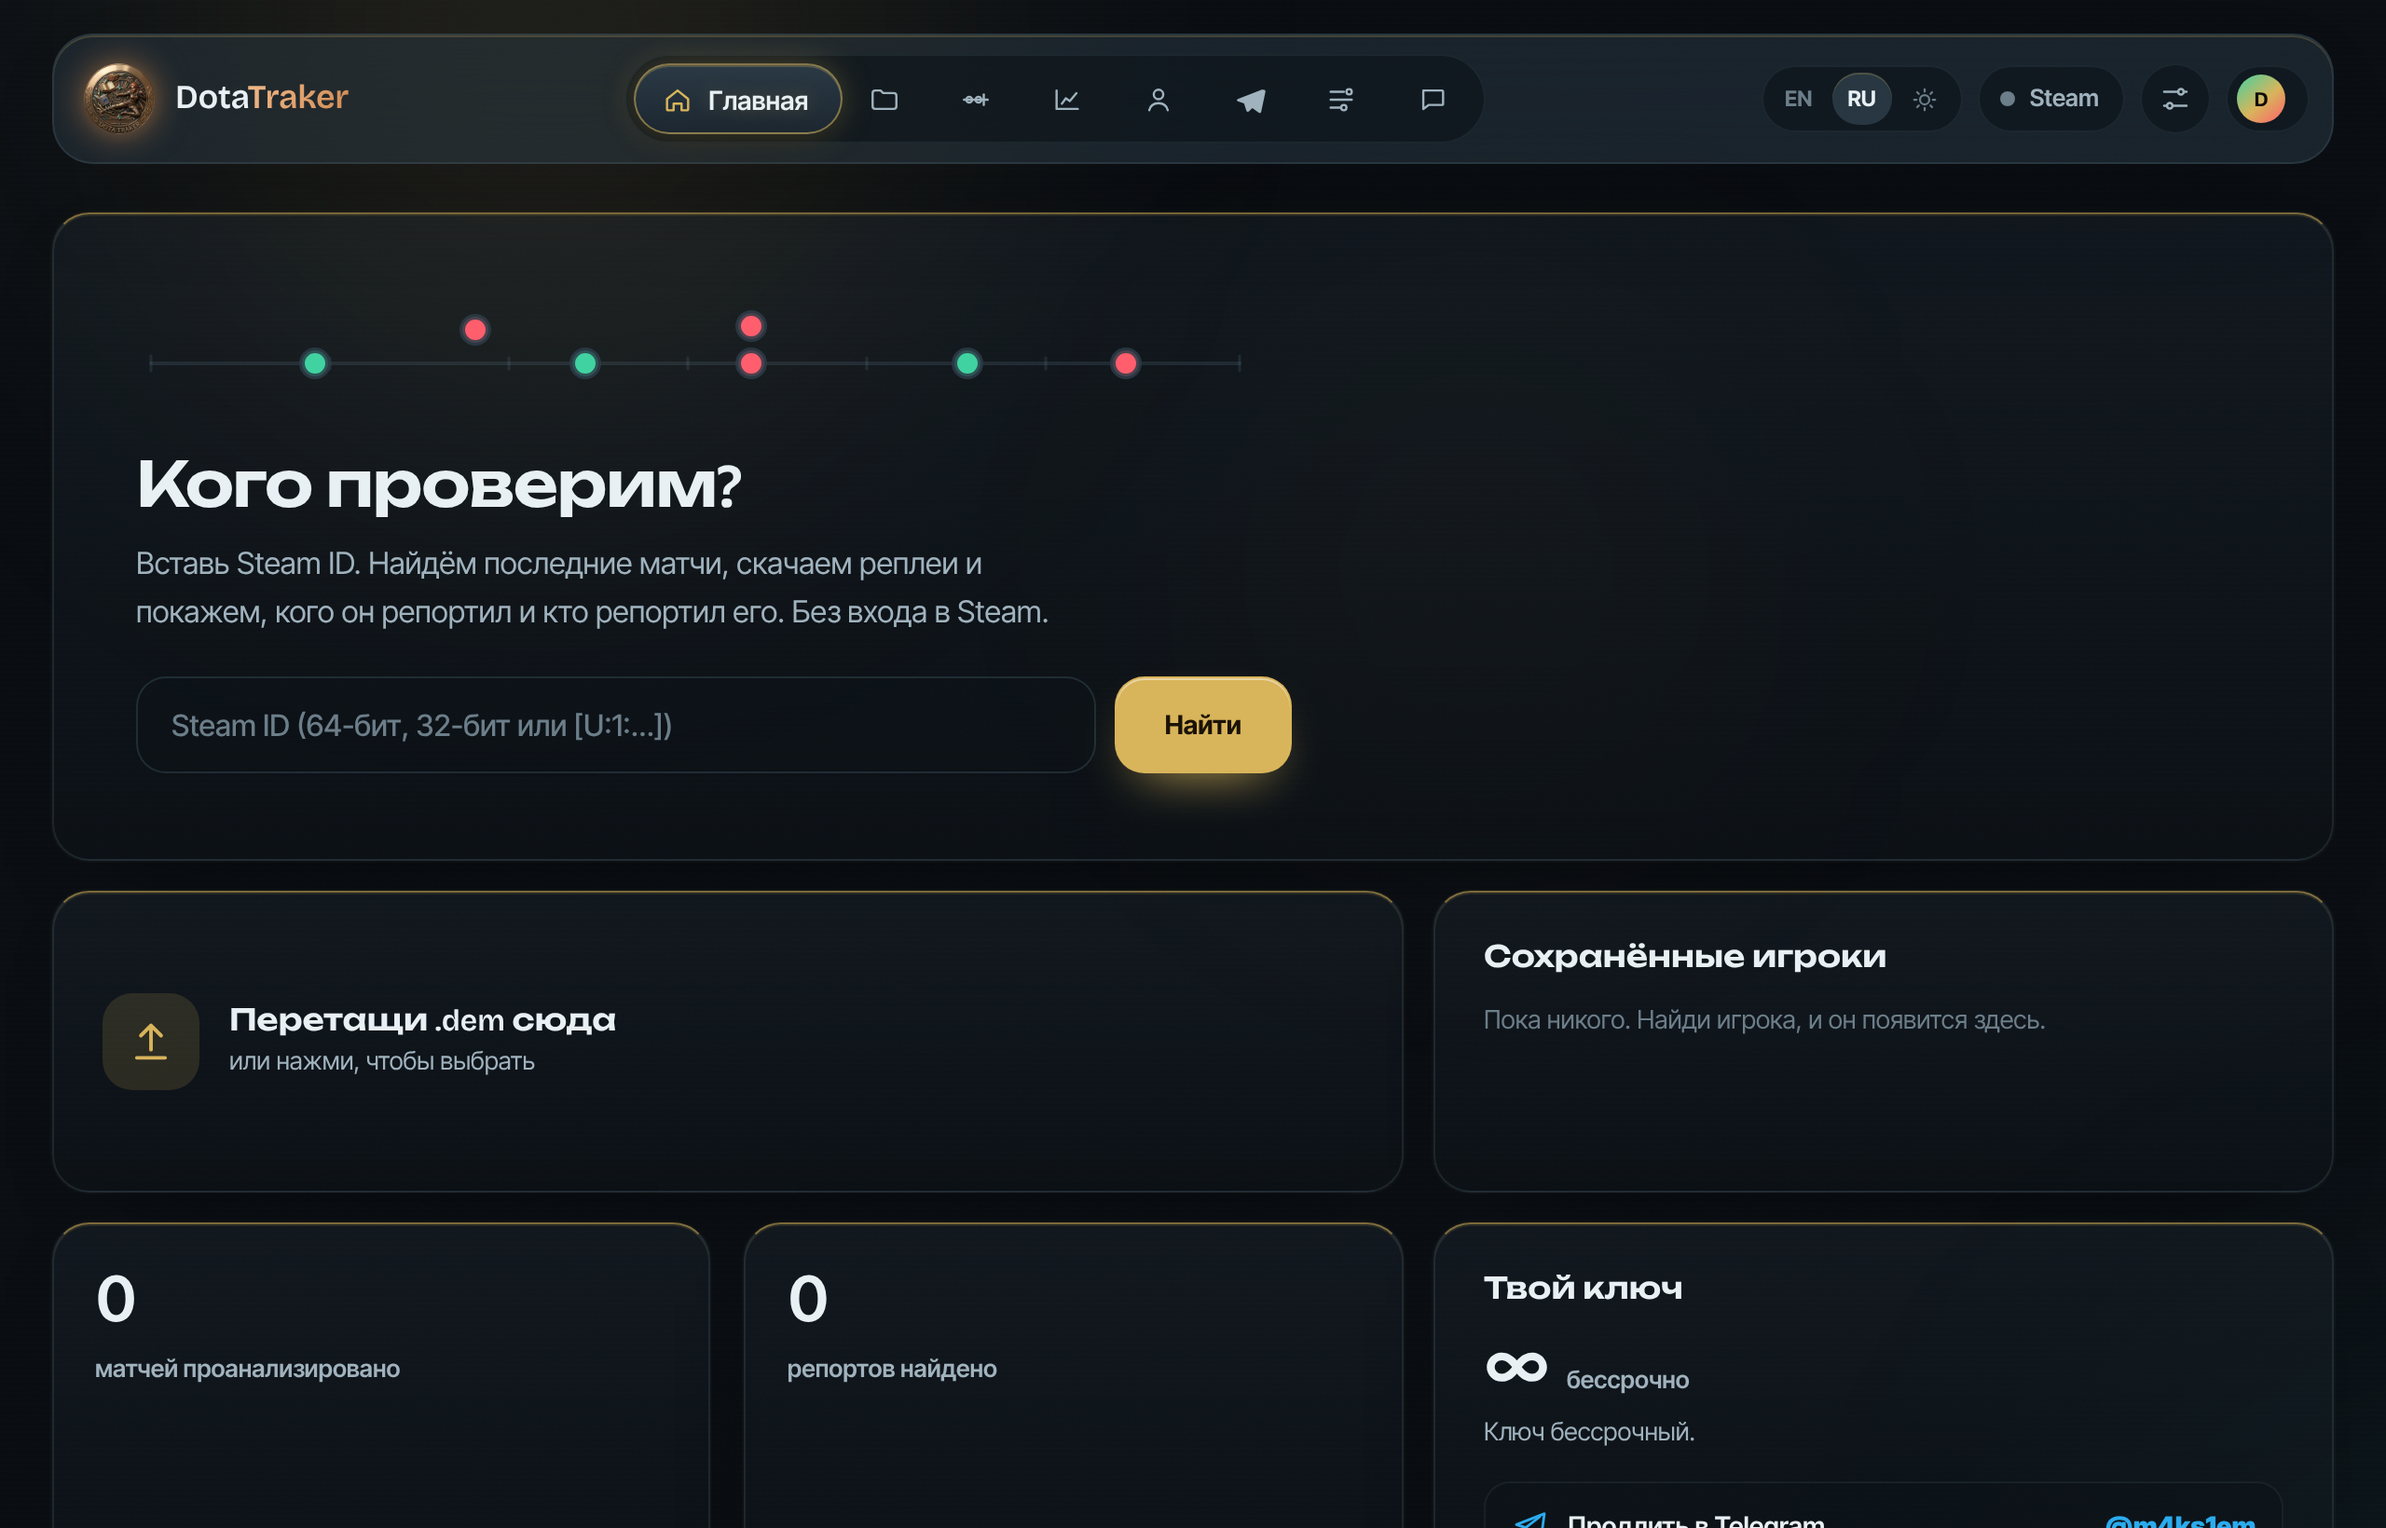
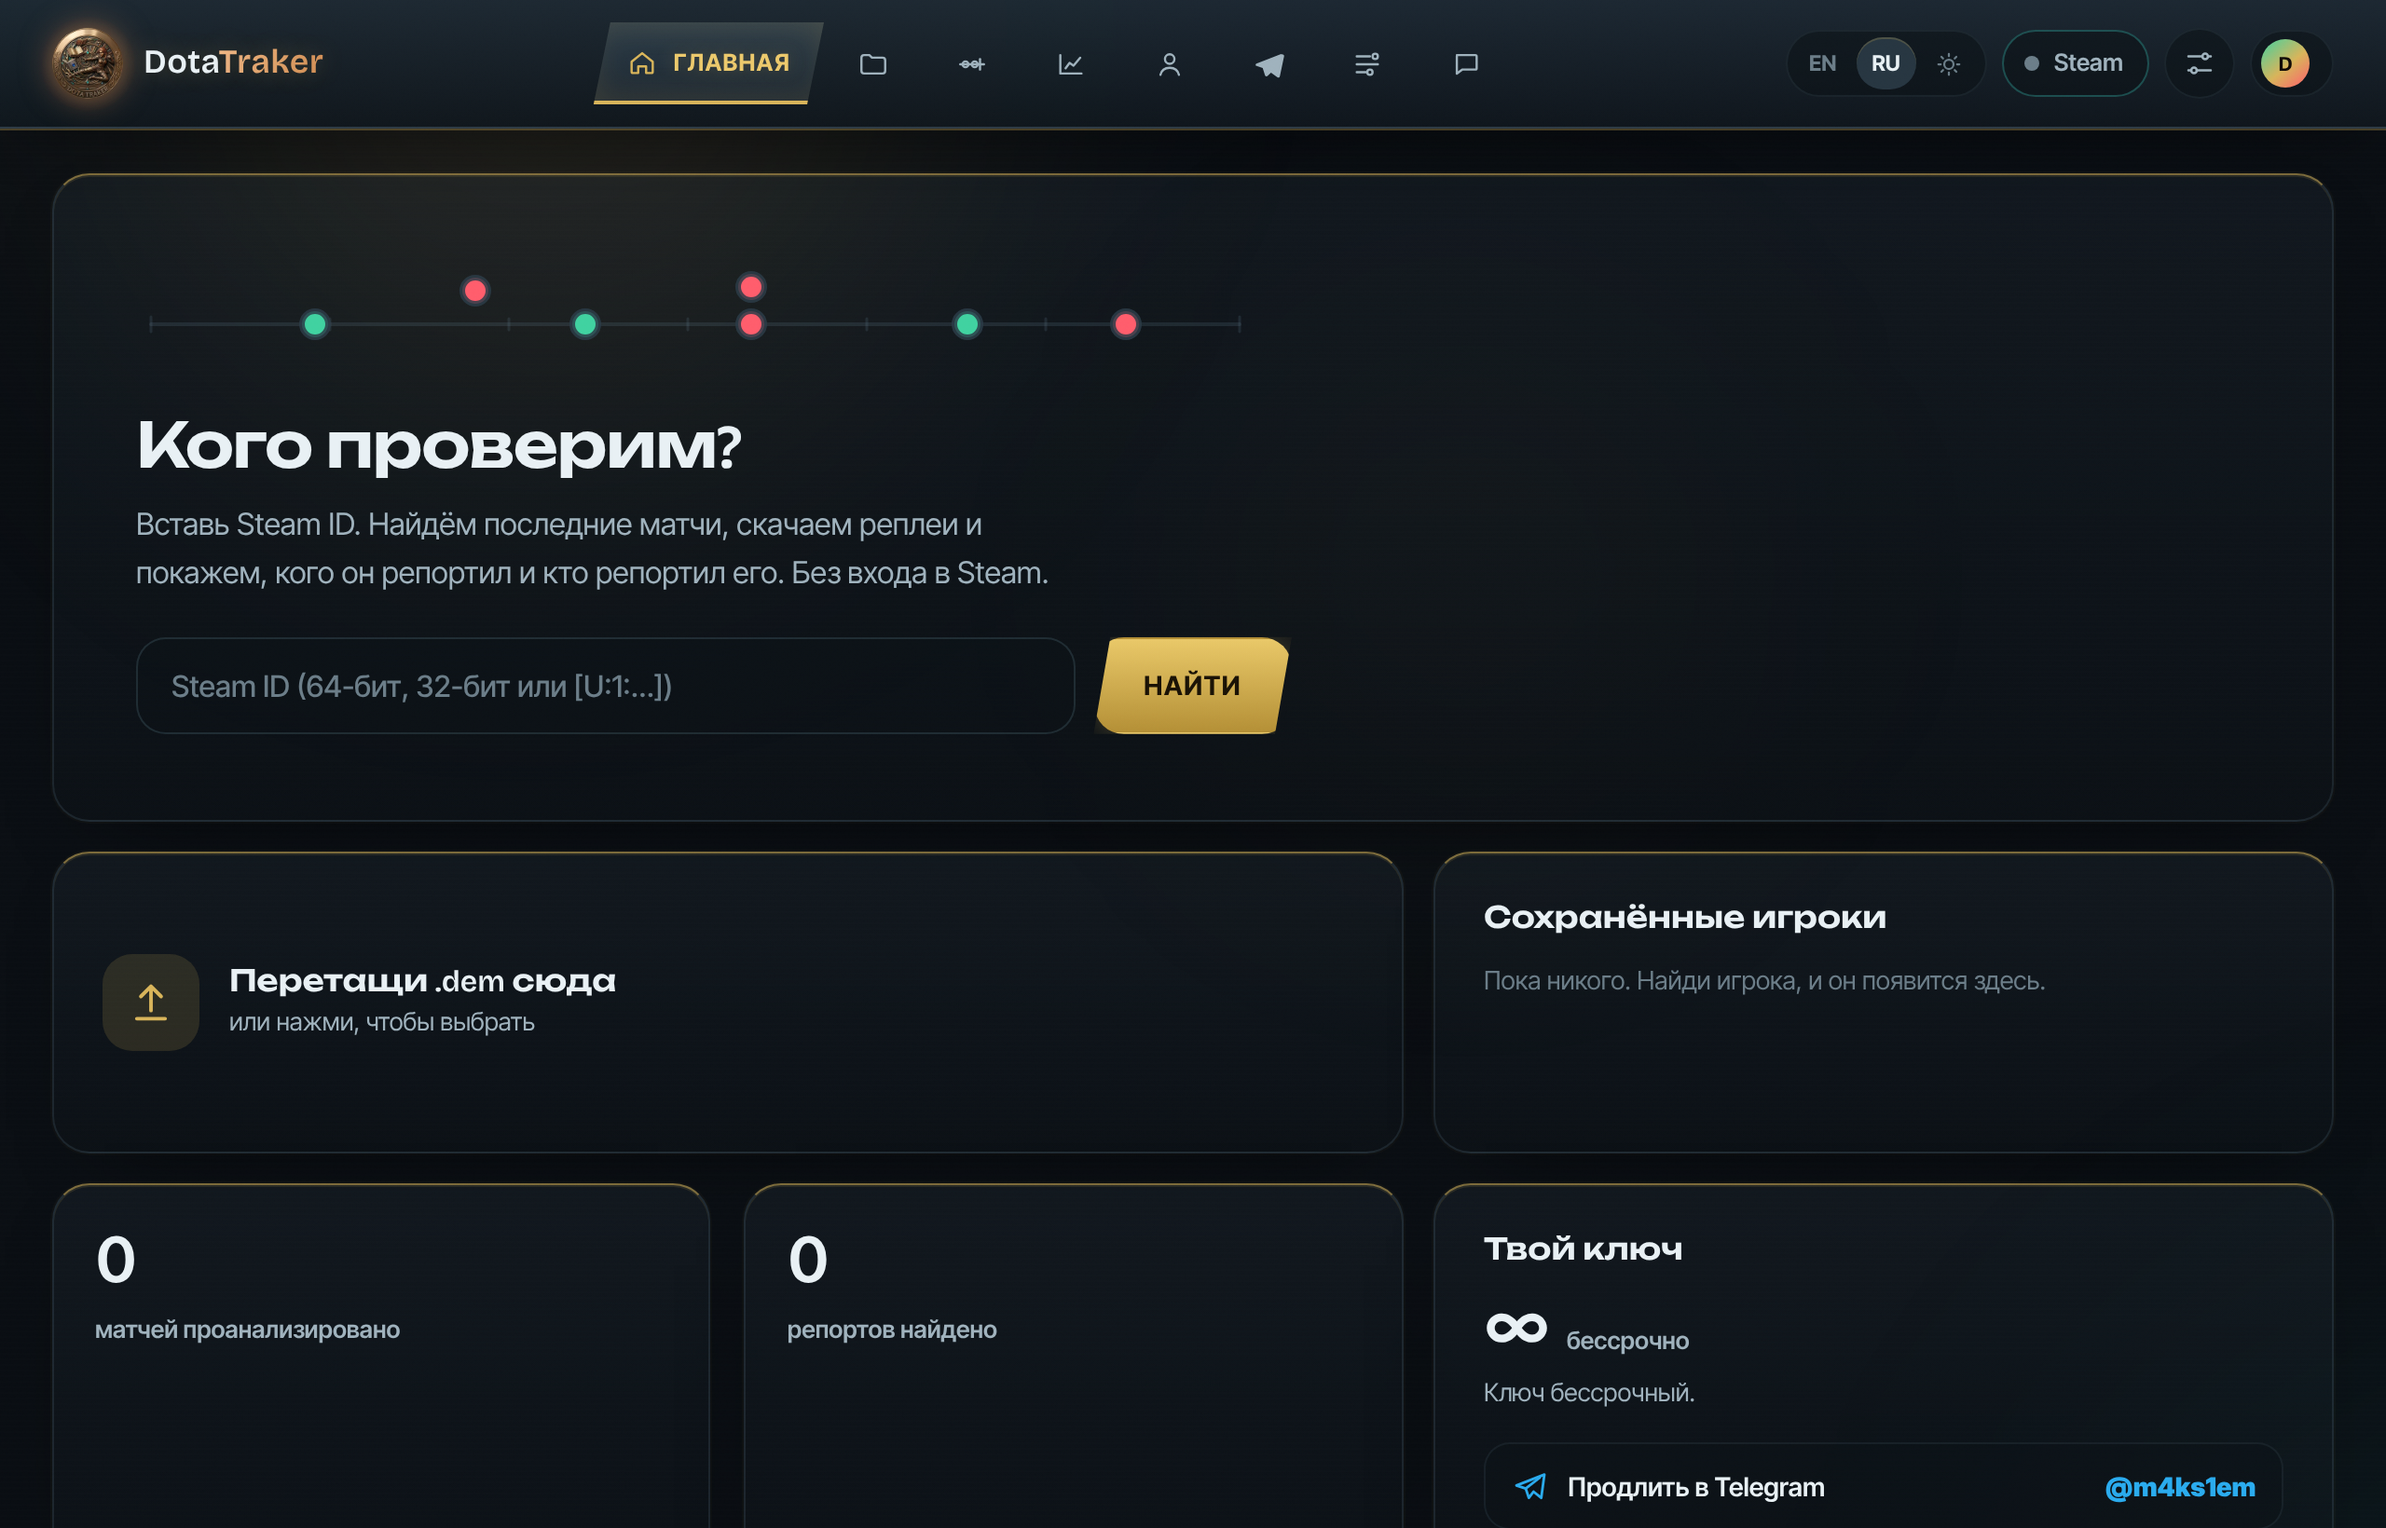
HUD skin: flat top bar, angular gold tabs + underline, angular buttons, uppercase titles, corner brackets

diff --git a/static/style.css b/static/style.css
@@ -1478,3 +1478,65 @@ html[data-theme="light"] body::before { opacity: 0.4; }
 /* neon rim-light on the match verdict gauge + big accents */
 .mv-gauge svg circle#mv-arc { filter: drop-shadow(0 0 6px rgba(255, 93, 108, 0.5)); }
 .status-badge.connected { box-shadow: 0 0 16px -2px var(--neon-soft); }
+
+/* ===================== HUD structural skin — match the B+ mockup ===================== */
+/* flat top bar instead of the floating pill */
+.main-header {
+    position: sticky; top: 0; z-index: 40;
+    margin: -18px -28px 24px; padding: 12px 28px; border-radius: 0;
+    background: linear-gradient(180deg, rgba(30, 42, 52, 0.94), rgba(16, 23, 29, 0.94));
+    border: 0; border-bottom: 1px solid #2e3b45;
+    box-shadow: 0 1px 0 rgba(216, 180, 90, 0.3), 0 10px 30px -12px rgba(0, 0, 0, 0.6);
+    backdrop-filter: blur(18px); -webkit-backdrop-filter: blur(18px);
+}
+.brand-name { letter-spacing: 0.01em; text-shadow: 0 0 14px rgba(216, 180, 90, 0.3); }
+/* nav: flat angular tabs with a gold underline on the active one (glider hidden) */
+.workflow-tabs { background: transparent; border: 0; padding: 0; gap: 0; border-radius: 0; }
+.glider { display: none !important; }
+.workflow-tab {
+    height: 44px; padding: 0 18px; border-radius: 0;
+    clip-path: polygon(9px 0, 100% 0, calc(100% - 9px) 100%, 0 100%);
+    text-transform: uppercase; letter-spacing: 0.05em; font-weight: 700; font-size: 0.78rem;
+}
+.workflow-tab.active {
+    background: linear-gradient(180deg, #2c3c48, #1d2832);
+    color: var(--accent-strong);
+    box-shadow: inset 0 0 18px rgba(216, 180, 90, 0.18);
+    border-bottom: 2px solid var(--accent);
+}
+.workflow-tab.active .tab-icon svg { stroke: var(--accent); }
+.workflow-tab:hover:not(.active) { color: var(--text-primary); }
+/* graph view: rectangular bordered segments */
+.graph-view-selector { background: transparent; border: 0; padding: 0; gap: 0; border-radius: 0; }
+.graph-view-tab {
+    height: 38px; padding: 0 16px; border-radius: 0;
+    border: 1px solid #2a3540; border-right: 0;
+    text-transform: uppercase; letter-spacing: 0.05em; font-weight: 700; font-size: 0.74rem;
+    background: rgba(23, 32, 40, 0.5);
+}
+.graph-view-selector .graph-view-tab:last-child { border-right: 1px solid #2a3540; }
+.graph-view-tab.active {
+    background: linear-gradient(180deg, #2c3c48, #1d2832); color: var(--accent-strong);
+    box-shadow: inset 0 0 14px rgba(216, 180, 90, 0.15);
+}
+/* angular gold / slate buttons */
+.primary-btn { clip-path: polygon(9px 0, 100% 0, calc(100% - 9px) 100%, 0 100%); text-transform: uppercase; letter-spacing: 0.05em; background: linear-gradient(180deg, #e9c868, #b48f36); box-shadow: 0 0 20px -4px rgba(216, 180, 90, 0.5); }
+.secondary-btn, .small-btn { clip-path: polygon(8px 0, 100% 0, calc(100% - 8px) 100%, 0 100%); text-transform: uppercase; letter-spacing: 0.04em; }
+/* uppercase section titles, HUD style */
+.card-header h2 { text-transform: uppercase; letter-spacing: 0.04em; font-size: 1.32rem; }
+/* glowing corner brackets on the verdict/gauge block and the timeline, like the mockup */
+.match-verdict { position: relative; }
+.match-verdict::after, #timeline-graph-container::after {
+    content: ""; position: absolute; inset: 0; border-radius: inherit; pointer-events: none;
+    background:
+        linear-gradient(var(--accent), var(--accent)) 0 0 / 20px 2px no-repeat,
+        linear-gradient(var(--accent), var(--accent)) 0 0 / 2px 20px no-repeat,
+        linear-gradient(var(--accent), var(--accent)) 100% 0 / 20px 2px no-repeat,
+        linear-gradient(var(--accent), var(--accent)) 100% 0 / 2px 20px no-repeat;
+    opacity: 0.7; filter: drop-shadow(0 0 3px rgba(216, 180, 90, 0.5));
+}
+#timeline-graph-container { position: relative; }
+.main-card::after { opacity: 0.8; }
+/* teal accent on the steam/account chip */
+.status-badge { border-color: rgba(64, 210, 200, 0.3); }
+.status-badge.connected { box-shadow: 0 0 16px -2px rgba(64, 210, 200, 0.3); }

diff --git a/static/index.html b/static/index.html
@@ -7,10 +7,10 @@
     <meta name="color-scheme" content="dark light">
     <title>DotaTraker — Dota 2 report timeline</title>
     <link rel="icon" href="/img/logo-64.png" type="image/png">
-    <link rel="stylesheet" href="fonts.css?v=45">
-    <link rel="stylesheet" href="style.css?v=45">
-    <script src="i18n.js?v=45"></script>
-    <script src="ui.js?v=45"></script>
+    <link rel="stylesheet" href="fonts.css?v=46">
+    <link rel="stylesheet" href="style.css?v=46">
+    <script src="i18n.js?v=46"></script>
+    <script src="ui.js?v=46"></script>
 </head>
 
 <body>
@@ -720,12 +720,12 @@
     <div class="chat-tip hidden" id="chat-tip"></div>
 
     <script src="vendor/chart.umd.min.js?v=4.4.0"></script>
-    <script src="app.js?v=45"></script>
-    <script src="history.js?v=45"></script>
-    <script src="ledger.js?v=45"></script>
-    <script src="tools.js?v=45"></script>
-    <script src="chat.js?v=45"></script>
-    <script src="share.js?v=45"></script>
+    <script src="app.js?v=46"></script>
+    <script src="history.js?v=46"></script>
+    <script src="ledger.js?v=46"></script>
+    <script src="tools.js?v=46"></script>
+    <script src="chat.js?v=46"></script>
+    <script src="share.js?v=46"></script>
 </body>
 
 </html>

diff --git a/gate/public/login.html b/gate/public/login.html
@@ -7,11 +7,11 @@
     <meta name="color-scheme" content="dark light">
     <title>DotaTraker — Sign in</title>
     <link rel="icon" href="/img/logo-64.png" type="image/png">
-    <link rel="stylesheet" href="/fonts.css?v=45">
-    <link rel="stylesheet" href="/style.css?v=45">
-    <link rel="stylesheet" href="/gate/gate.css?v=45">
-    <script src="/i18n.js?v=45"></script>
-    <script src="/ui.js?v=45"></script>
+    <link rel="stylesheet" href="/fonts.css?v=46">
+    <link rel="stylesheet" href="/style.css?v=46">
+    <link rel="stylesheet" href="/gate/gate.css?v=46">
+    <script src="/i18n.js?v=46"></script>
+    <script src="/ui.js?v=46"></script>
 </head>
 <body class="gate">
     <div class="aurora copper" aria-hidden="true"><i class="a1"></i><i class="a2"></i><i class="a3"></i></div>
@@ -124,6 +124,6 @@
             </section>
         </div>
     </main>
-    <script src="/gate/login.js?v=45"></script>
+    <script src="/gate/login.js?v=46"></script>
 </body>
 </html>

diff --git a/cap2.js b/cap2.js
@@ -1,0 +1,13 @@
+const { chromium } = require('playwright');
+(async () => {
+  const b = await chromium.launch({ executablePath: '/opt/pw-browsers/chromium-1194/chrome-linux/chrome' });
+  const p = await b.newPage({ viewport: { width: 1280, height: 820 }, deviceScaleFactor: 2 });
+  const errs=[]; p.on('pageerror',e=>errs.push(e.message));
+  await p.goto('http://localhost:8103/', { waitUntil: 'networkidle' });
+  await p.waitForTimeout(800);
+  try{ await p.click('text=RU',{timeout:1500}); }catch(e){}
+  await p.waitForTimeout(500);
+  await p.screenshot({ path: '/tmp/claude-0/redesign/hud_home.png' });
+  console.log('errors', JSON.stringify(errs));
+  await b.close();
+})().catch(e=>{console.error('FAIL',e.message);process.exit(1)});
